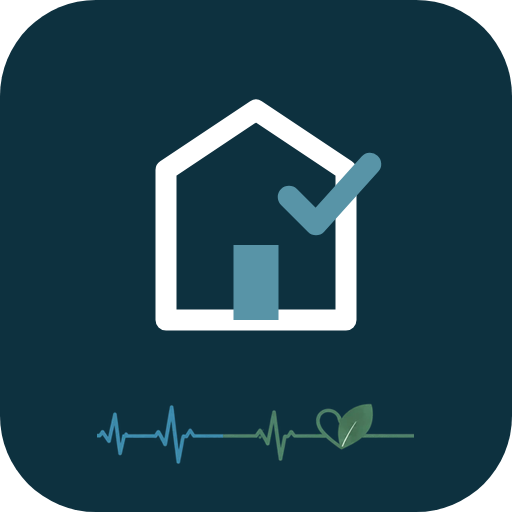
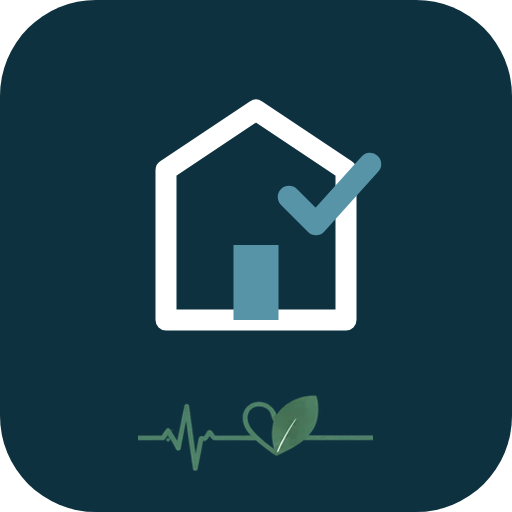
Ícono: solo el pulso verde con corazón y hoja
Claude-Session: https://claude.ai/code/session_012SCdV6tWUdxjDCg3nhg6s5

Changed region(s): [[0.1875, 0.75, 0.8125, 0.9375]]

diff --git a/sw.js b/sw.js
@@ -1,6 +1,6 @@
 /* Service worker · App de relevamiento de edificios v0
    Guarda la app en el dispositivo para que abra sin señal. */
-const CACHE = 'relevamiento-v0-6';
+const CACHE = 'relevamiento-v0-7';
 const BASE = ['./', './index.html', './manifest.json', './logo-hysl.png', './icons/icon-192.png', './icons/icon-512.png'];
 
 self.addEventListener('install', e => {
